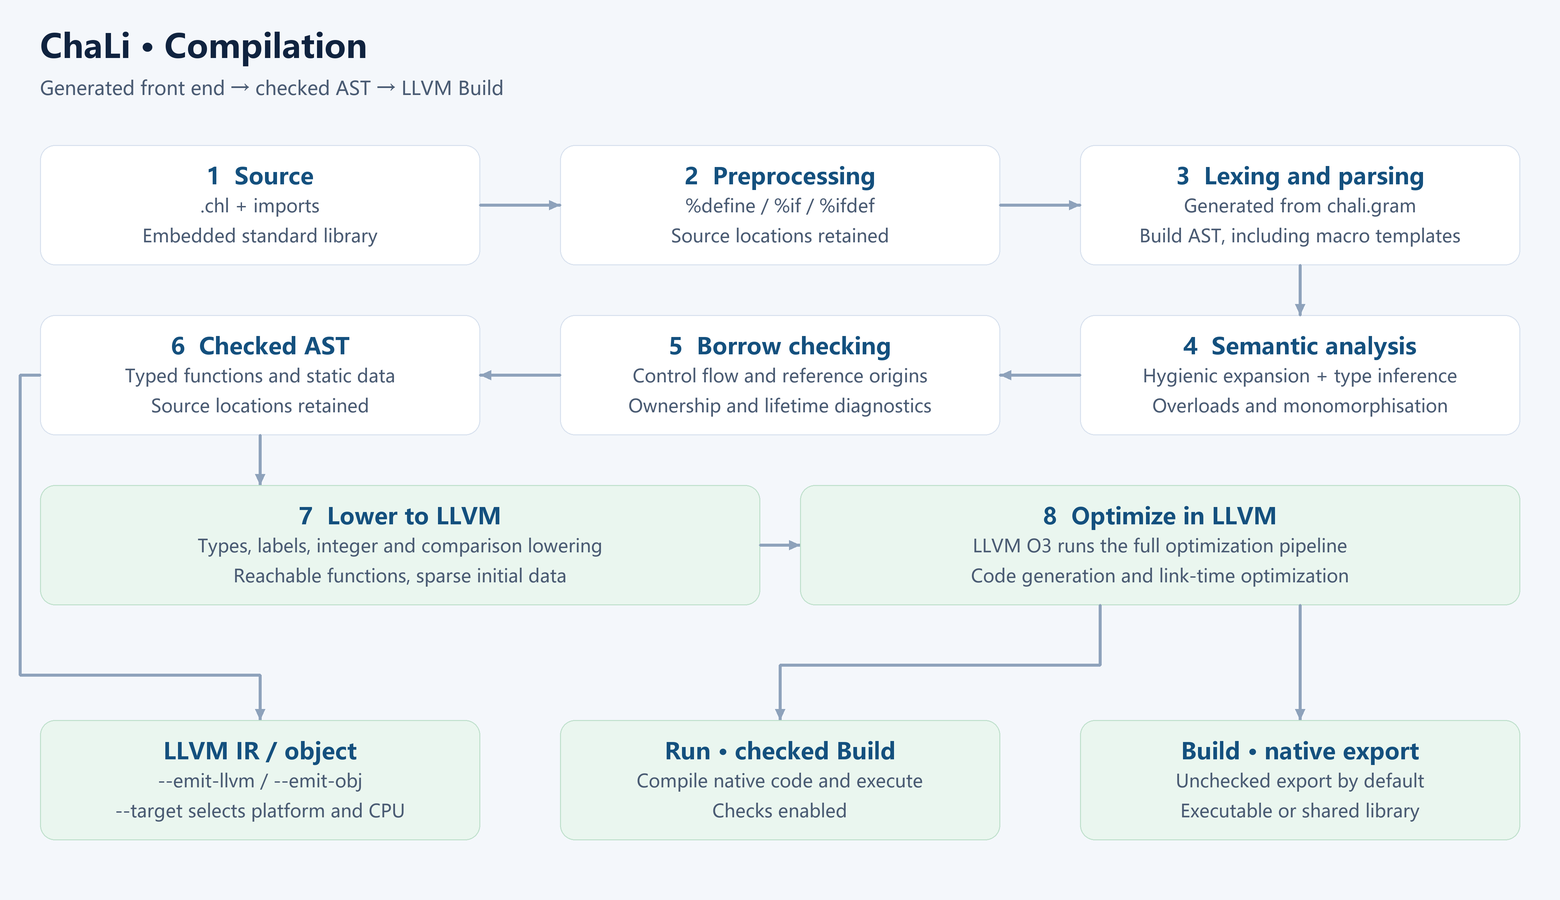
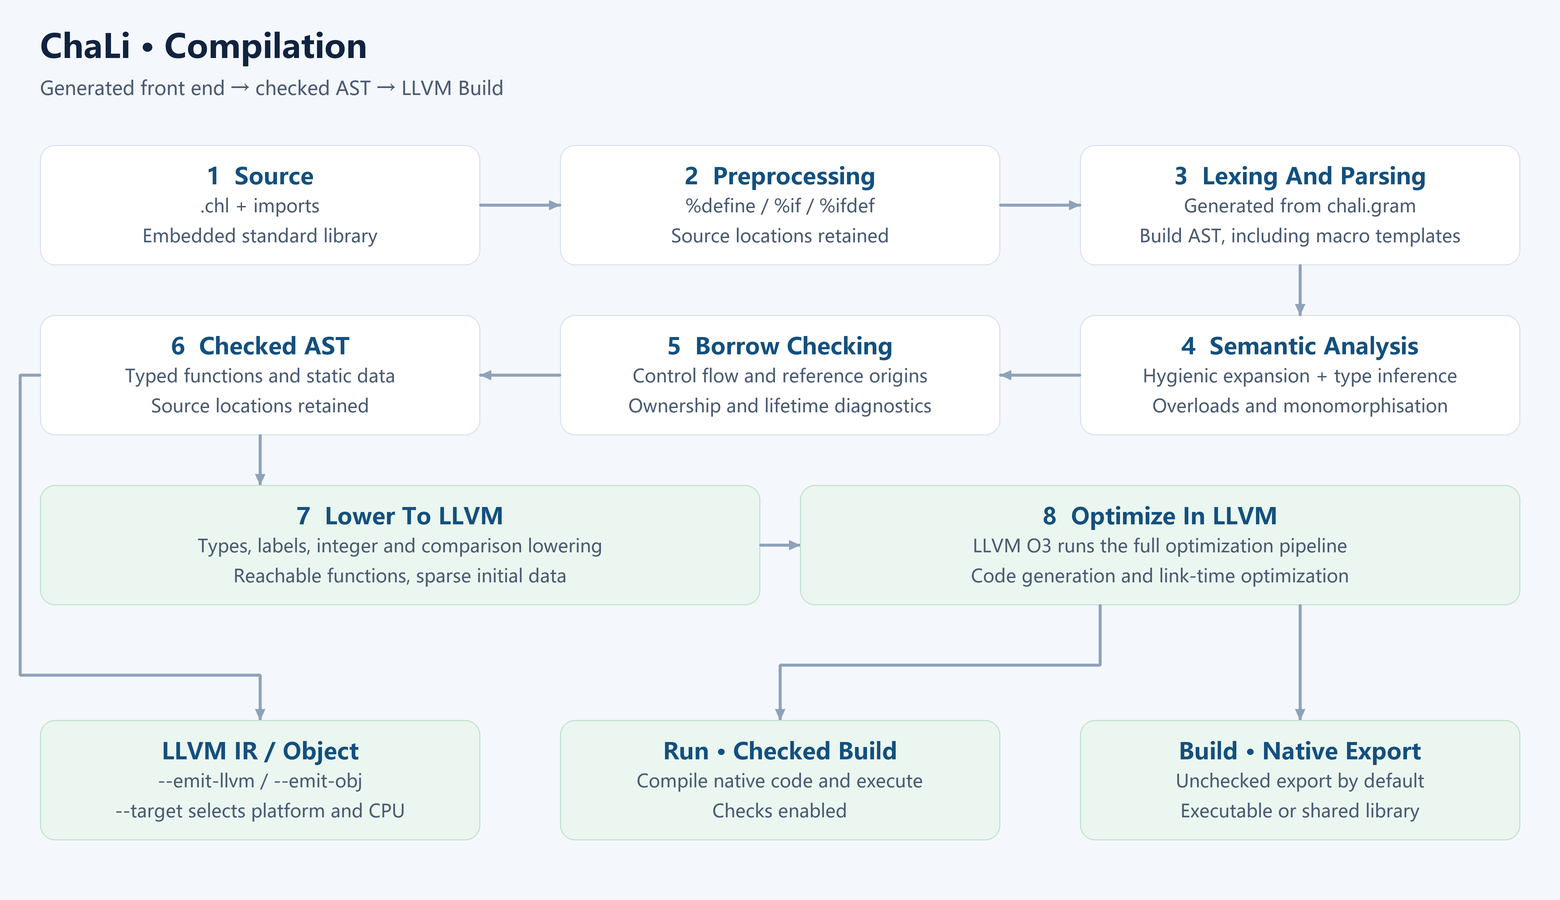
统一流程图英文标题各单词首字母大写

diff --git a/tools/make_pipeline_diagrams.py b/tools/make_pipeline_diagrams.py
@@ -66,9 +66,9 @@ def compilation(english=False):
     nodes = [
         (40, 145, "1  Source" if english else "1  源码与模块", [".chl + imports", "Embedded standard library"] if english else [".chl 与模块依赖", "内嵌标准库"]),
         (560, 145, "2  Preprocessing" if english else "2  条件预处理", ["%define / %if / %ifdef", "Source locations retained"] if english else ["%define / %if / %ifdef", "保留源文件与行号"]),
-        (1080, 145, "3  Lexing and parsing" if english else "3  词法与语法解析", ["Generated from chali.gram", "Build AST, including macro templates"] if english else ["由 chali.gram 生成的前端", "构建 AST 与宏模板"]),
-        (1080, 315, "4  Semantic analysis" if english else "4  语义分析与宏展开", ["Hygienic expansion + type inference", "Overloads and monomorphisation"] if english else ["卫生 AST 宏展开与类型推导", "名称、重载与泛型单态化"]),
-        (560, 315, "5  Borrow checking" if english else "5  独立借用检查", ["Control flow and reference origins", "Ownership and lifetime diagnostics"] if english else ["控制流与引用来源", "拥有关系及生命周期诊断"]),
+        (1080, 145, "3  Lexing And Parsing" if english else "3  词法与语法解析", ["Generated from chali.gram", "Build AST, including macro templates"] if english else ["由 chali.gram 生成的前端", "构建 AST 与宏模板"]),
+        (1080, 315, "4  Semantic Analysis" if english else "4  语义分析与宏展开", ["Hygienic expansion + type inference", "Overloads and monomorphisation"] if english else ["卫生 AST 宏展开与类型推导", "名称、重载与泛型单态化"]),
+        (560, 315, "5  Borrow Checking" if english else "5  独立借用检查", ["Control flow and reference origins", "Ownership and lifetime diagnostics"] if english else ["控制流与引用来源", "拥有关系及生命周期诊断"]),
         (40, 315, "6  Checked AST" if english else "6  已检查 AST", ["Typed functions and static data", "Source locations retained"] if english else ["已定型函数与静态数据", "保留诊断来源"]),
     ]
     for x, y, heading, lines in nodes:
@@ -77,17 +77,17 @@ def compilation(english=False):
                    ((1300, 265), (1300, 315)), ((1080, 375), (1000, 375)),
                    ((560, 375), (480, 375)), ((260, 435), (260, 485))]:
         arrow(c, points)
-    box(c, 40, 485, 720, "7  Lower to LLVM" if english else "7  降低为 LLVM",
+    box(c, 40, 485, 720, "7  Lower To LLVM" if english else "7  降低为 LLVM",
         ["Types, labels, integer and comparison lowering" if english else "类型与标签、整数及比较跳转降低",
          "Reachable functions, sparse initial data" if english else "可达函数、稀疏初值"], green=True)
     arrow(c, ((760, 545), (800, 545)))
-    box(c, 800, 485, 720, "8  Optimize in LLVM" if english else "8  LLVM 优化",
+    box(c, 800, 485, 720, "8  Optimize In LLVM" if english else "8  LLVM 优化",
         ["LLVM O3 runs the full optimization pipeline" if english else "LLVM O3 完成全部优化",
          "Code generation and link-time optimization" if english else "机器码生成与链接时优化"], green=True)
     outputs = [
-        (40, "LLVM IR / object" if english else "LLVM IR／目标文件", ["--emit-llvm / --emit-obj", "--target selects platform and CPU"] if english else ["--emit-llvm / --emit-obj", "--target 选择目标平台与架构"]),
-        (560, "Run · checked Build", ["Compile native code and execute", "Checks enabled"] if english else ["编译原生机器码并执行", "开启数组与指针检查"]),
-        (1080, "Build · native export" if english else "Build · 原生导出", ["Unchecked export by default", "Executable or shared library"] if english else ["缺省 unchecked 导出", "可执行文件或动态库"]),
+        (40, "LLVM IR / Object" if english else "LLVM IR／目标文件", ["--emit-llvm / --emit-obj", "--target selects platform and CPU"] if english else ["--emit-llvm / --emit-obj", "--target 选择目标平台与架构"]),
+        (560, "Run · Checked Build", ["Compile native code and execute", "Checks enabled"] if english else ["编译原生机器码并执行", "开启数组与指针检查"]),
+        (1080, "Build · Native Export" if english else "Build · 原生导出", ["Unchecked export by default", "Executable or shared library"] if english else ["缺省 unchecked 导出", "可执行文件或动态库"]),
     ]
     arrow(c, ((40, 375), (20, 375), (20, 675), (260, 675), (260, 720)))
     arrow(c, ((1100, 605), (1100, 665), (780, 665), (780, 720)))
@@ -100,17 +100,17 @@ def compilation(english=False):
 def aot(english=False):
     """绘制已检查 AST 经 LLVM 生成原生产物的两种编译器配置。"""
     c = Canvas()
-    title(c, "ChaLi · Release build" if english else "ChaLi · 发布构建流程",
+    title(c, "ChaLi · Release Build" if english else "ChaLi · 发布构建流程",
           "Checked AST → LLVM → target code → native artifact" if english else
           "已检查 AST → LLVM IR → 目标机器码 → 链接原生产物")
     rows = [
-        (40, "1  Source and checks" if english else "1  源码与前端检查",
+        (40, "1  Source And Checks" if english else "1  源码与前端检查",
          [".chl / imports / AST macros", "Types, ownership and lifetimes"] if english else
          [".chl、模块与 AST 宏", "类型、拥有关系及生命周期"]),
         (560, "2  Checked AST" if english else "2  已检查 AST",
          ["Generate LLVM IR directly in C++", "No quadruple serialization"] if english else
          ["C++ 后端直接生成 LLVM IR", "跳过四元式生成、写盘与重读"]),
-        (1080, "3  LLVM module" if english else "3  LLVM 中间表示",
+        (1080, "3  LLVM Module" if english else "3  LLVM 中间表示",
          [".ll + embedded native runtime", "--emit-llvm stops here"] if english else
          [".ll 与内嵌原生运行时", "--emit-llvm 在此停止"]),
     ]
@@ -120,7 +120,7 @@ def aot(english=False):
     arrow(c, ((1000, 210), (1080, 210)))
     arrow(c, ((1300, 270), (1300, 310), (400, 310), (400, 355)))
     arrow(c, ((1300, 310), (1160, 310), (1160, 355)))
-    box(c, 40, 355, 720, "4a  Built-in LLVM" if english else "4a  静态内置 LLVM",
+    box(c, 40, 355, 720, "4a  Built-In LLVM" if english else "4a  静态内置 LLVM",
         ["LLVM optimization + x64 object code" if english else "LLVM 优化与 x64 目标代码生成",
          "In-process LLD + embedded CRT assets" if english else "进程内 LLD 与内嵌 CRT 链接资产"], green=True)
     box(c, 800, 355, 720, "4b  External LLVM" if english else "4b  外置 LLVM 工具链",
@@ -128,13 +128,13 @@ def aot(english=False):
          "library/llvm or explicit --llvm path" if english else "library/llvm 或 --llvm 指定路径"], green=True)
     arrow(c, ((400, 475), (400, 520), (1160, 520), (1160, 475)), head=False)
     arrow(c, ((780, 520), (780, 565)))
-    box(c, 40, 565, 1480, "5  Link native artifact" if english else "5  链接原生产物",
+    box(c, 40, 565, 1480, "5  Link Native Artifact" if english else "5  链接原生产物",
         ["Object code + native runtime + CRT + explicit C ABI libraries" if english else
          "目标代码 + 原生运行时 + CRT + 显式声明的 C ABI 库",
          "--shared / --export / --link select the output and integration" if english else
          "通过 --shared、--export、--link 配置动态库、导出函数与链接库"], green=True)
     arrow(c, ((780, 685), (780, 735)))
-    box(c, 40, 735, 1480, "6  Deliver and run" if english else "6  交付与运行",
+    box(c, 40, 735, 1480, "6  Deliver And Run" if english else "6  交付与运行",
         ["Executable or shared library; no LLVM DLL required by the artifact" if english else
          "可执行文件或动态库；产物无需 LLVM DLL",
          "Ship application C ABI dependencies when used" if english else
